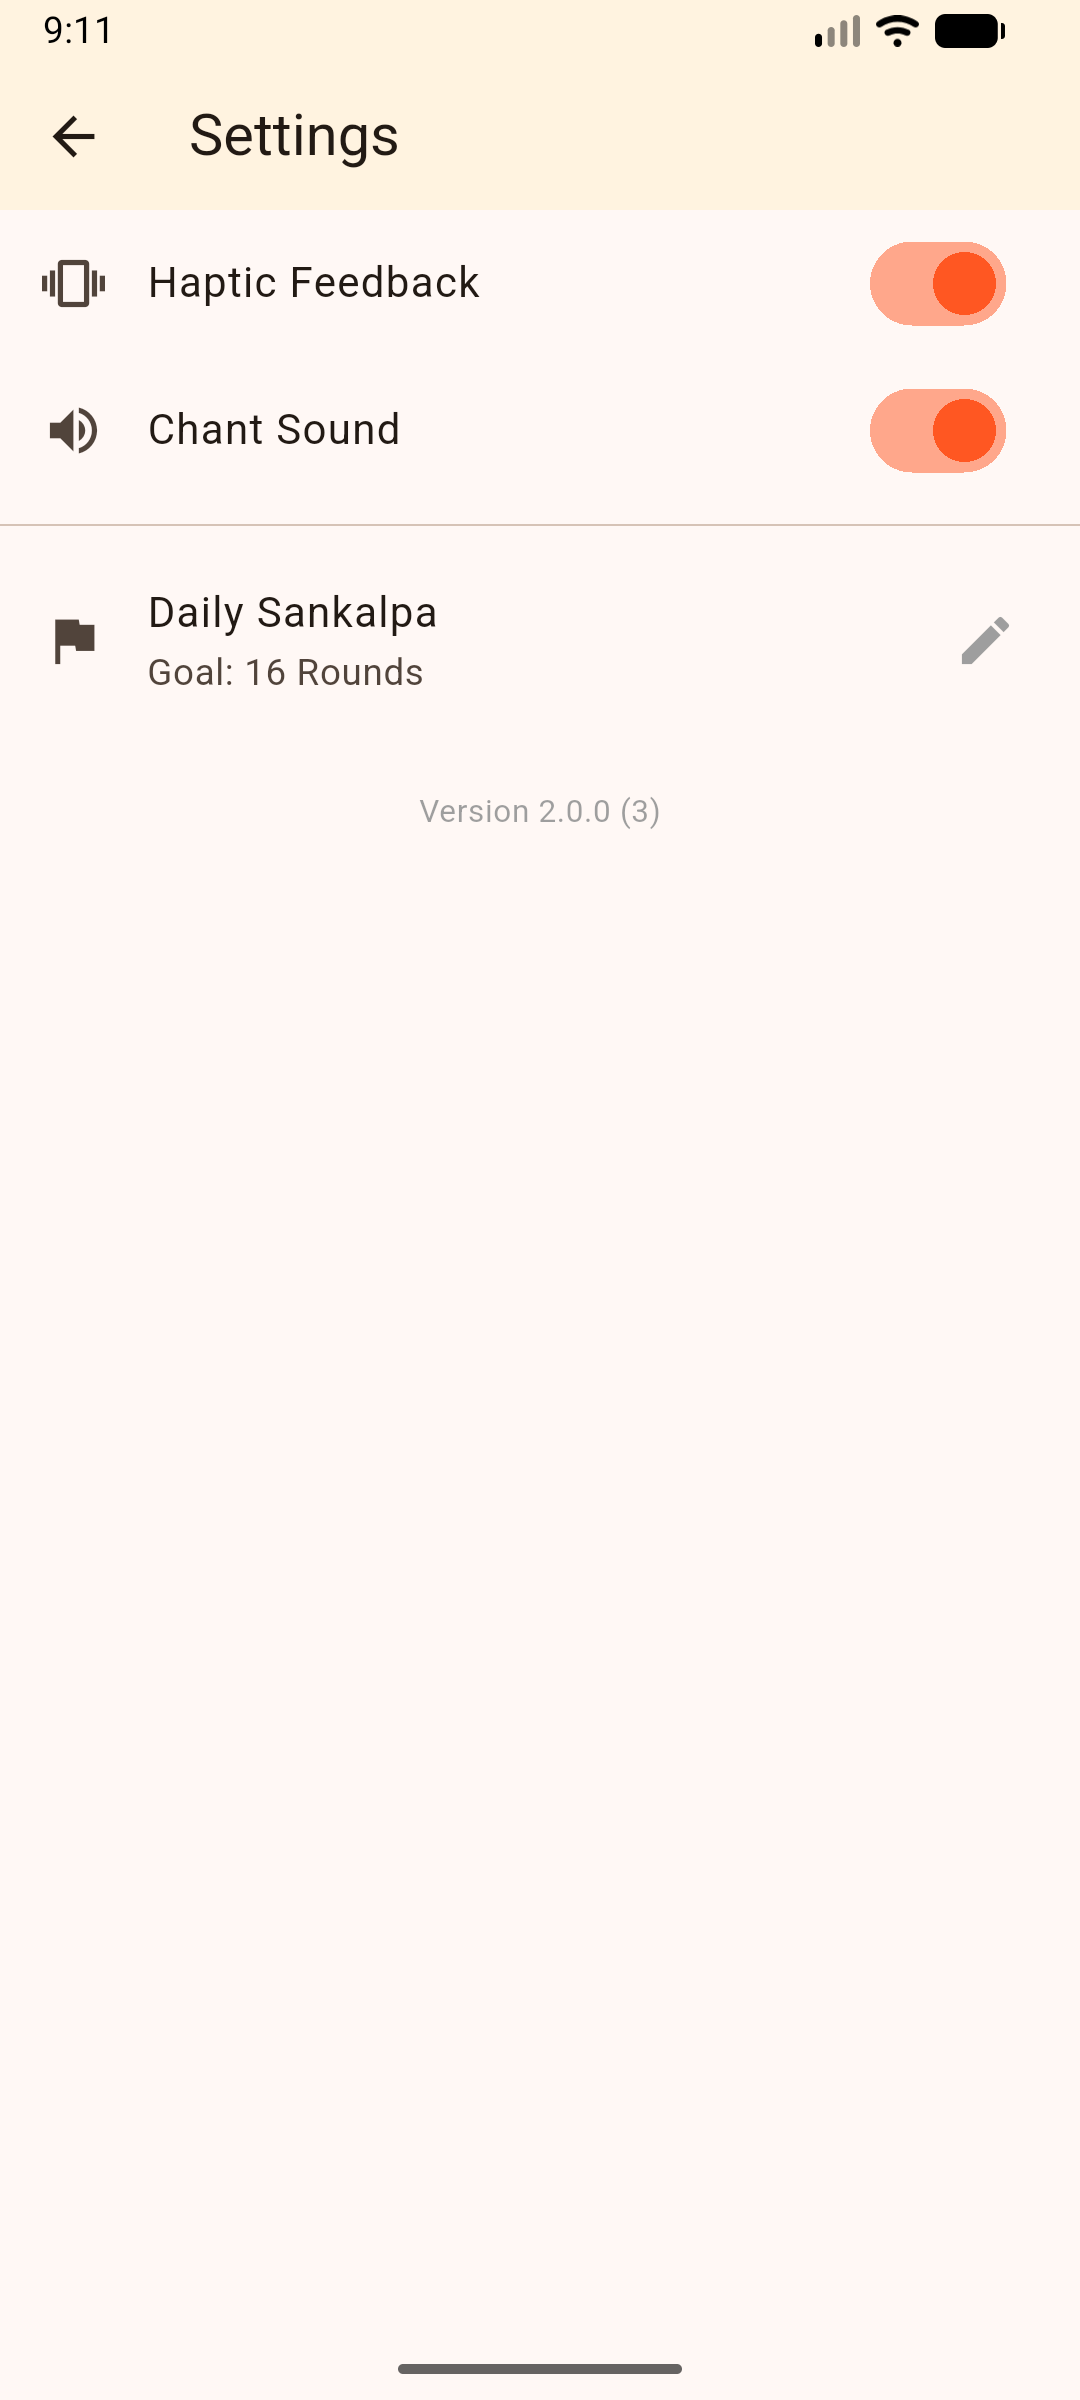
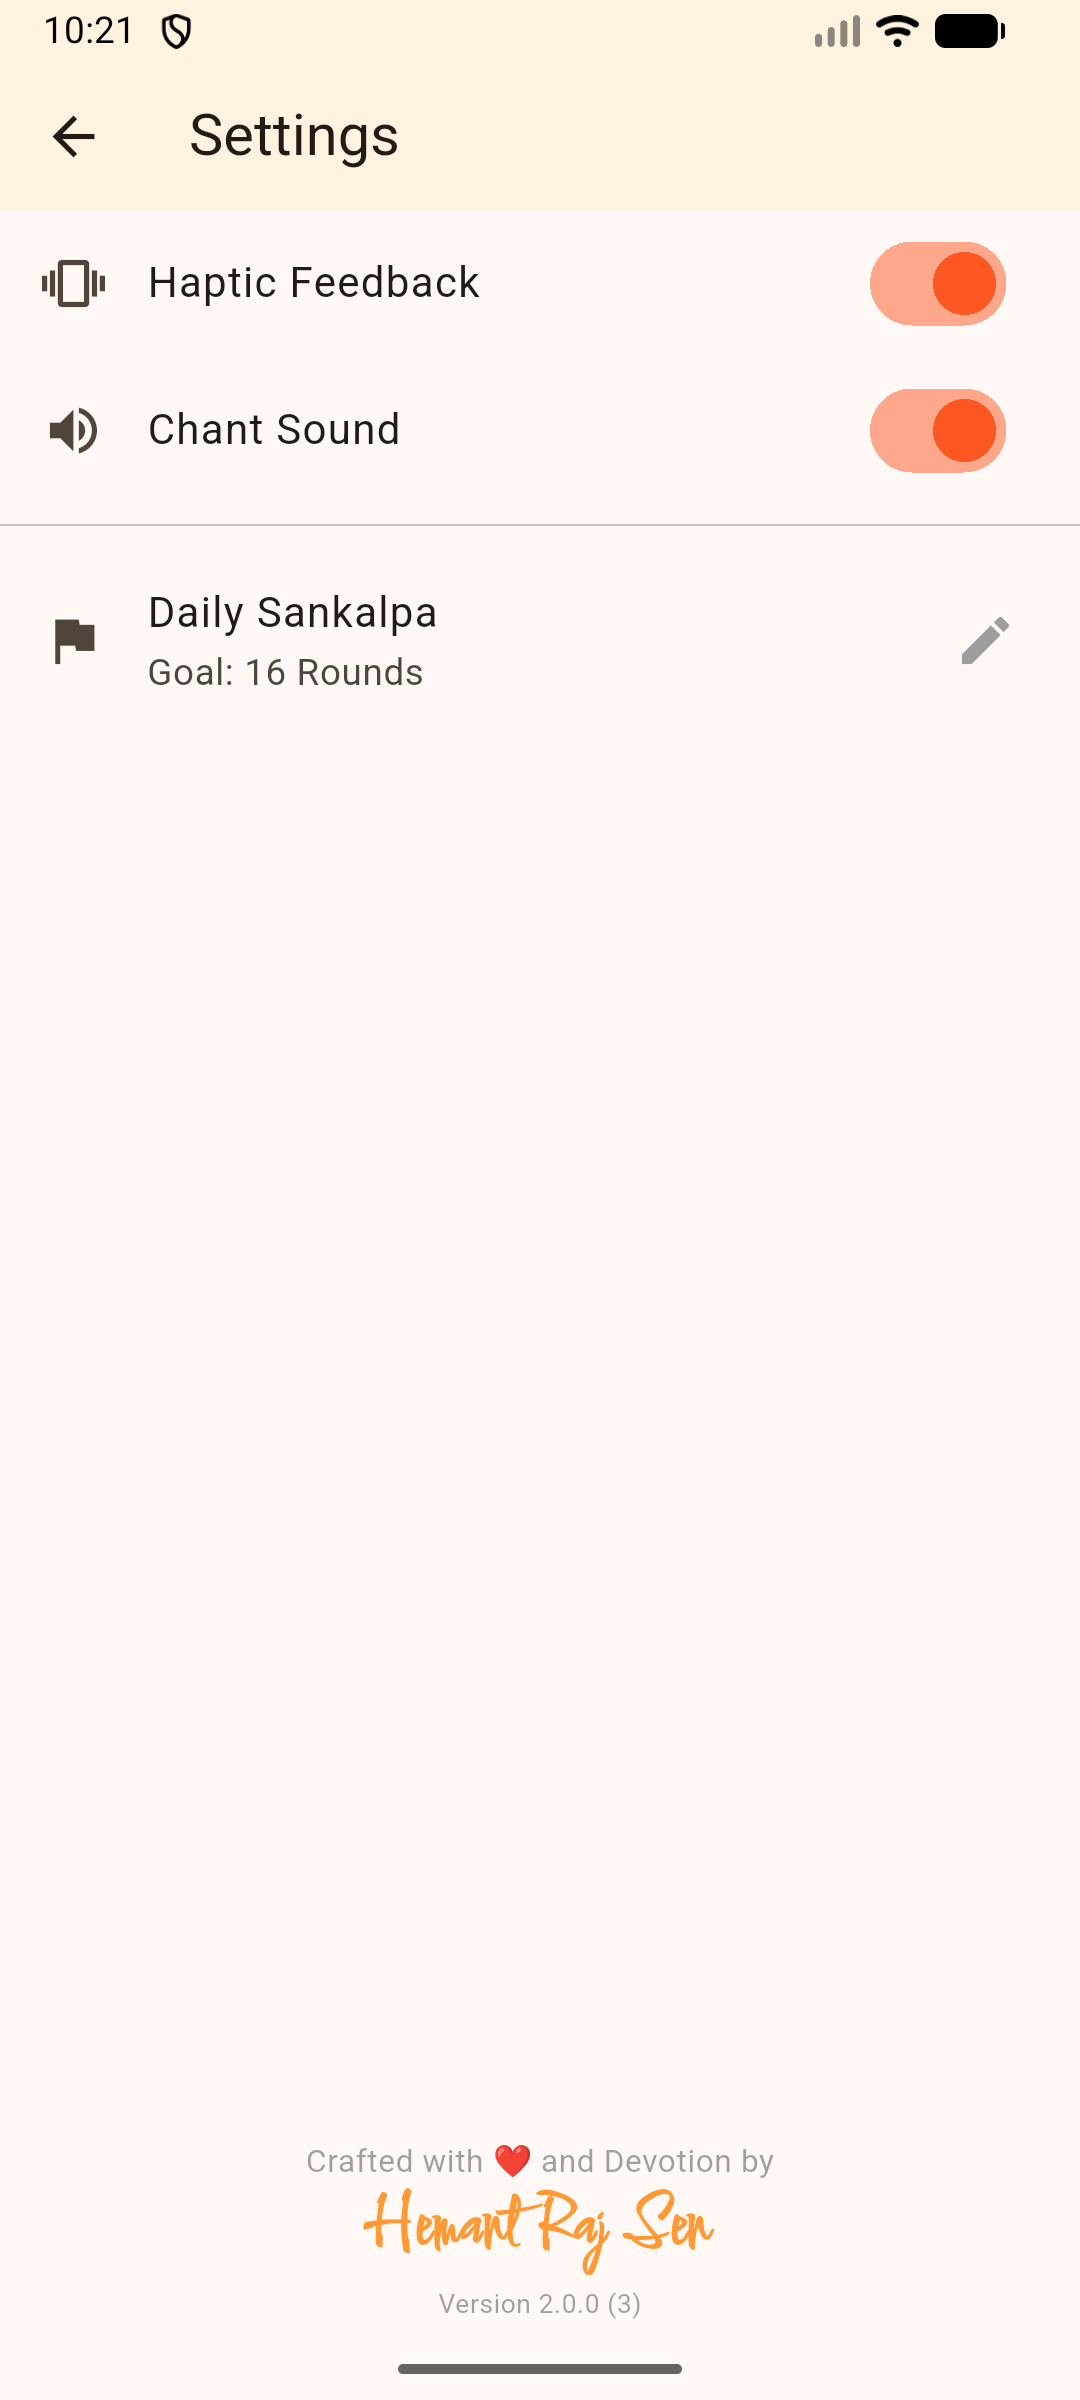
Added My Signature and some fixes

diff --git a/lib/main.dart b/lib/main.dart
@@ -1041,83 +1041,111 @@ class _SettingsScreenState extends State<SettingsScreen> {
         title: const Text("Settings"),
         backgroundColor: Colors.orange[50],
       ),
-      body: ListView(
+      // CHANGE 1: Main body is now a Column to separate List and Footer
+      body: Column(
         children: [
-          SwitchListTile(
-            secondary: const Icon(Icons.vibration),
-            title: const Text("Haptic Feedback"),
-            value: _isVibrationOn,
-            activeThumbColor: Colors.deepOrange,
-            onChanged: (val) {
-              setState(() => _isVibrationOn = val);
-              _updateSetting('isVibrationOn', val);
-            },
-          ),
-          SwitchListTile(
-            secondary: const Icon(Icons.volume_up),
-            title: const Text("Chant Sound"),
-            value: _isSoundOn,
-            activeThumbColor: Colors.deepOrange,
-            onChanged: (val) {
-              setState(() => _isSoundOn = val);
-              _updateSetting('isSoundOn', val);
-            },
-          ),
-          const Divider(),
-          ListTile(
-            leading: const Icon(Icons.flag),
-            title: const Text("Daily Sankalpa"),
-            subtitle: Text("Goal: ${_targetRounds.round()} Rounds"),
-            trailing: const Icon(Icons.edit, color: Colors.grey),
-            onTap: () async {
-              final controller = TextEditingController(
-                text: _targetRounds.round().toString(),
-              );
-              final result = await showDialog<int>(
-                context: context,
-                builder: (ctx) => AlertDialog(
-                  title: const Text('Set Daily Sankalpa'),
-                  content: TextField(
-                    controller: controller,
-                    keyboardType: TextInputType.number,
-                    autofocus: true,
-                    decoration: const InputDecoration(
-                      hintText: 'Enter number of rounds',
-                      suffixText: 'rounds',
-                    ),
-                  ),
-                  actions: [
-                    TextButton(
-                      onPressed: () => Navigator.pop(ctx),
-                      child: const Text('Cancel'),
-                    ),
-                    TextButton(
-                      onPressed: () {
-                        final value = int.tryParse(controller.text);
-                        if (value != null && value > 0) {
-                          Navigator.pop(ctx, value);
-                        }
-                      },
-                      child: const Text('Save'),
-                    ),
-                  ],
+          // CHANGE 2: The List is wrapped in Expanded to push the footer down
+          Expanded(
+            child: ListView(
+              children: [
+                SwitchListTile(
+                  secondary: const Icon(Icons.vibration),
+                  title: const Text("Haptic Feedback"),
+                  value: _isVibrationOn,
+                  activeThumbColor: Colors.deepOrange,
+                  onChanged: (val) {
+                    setState(() => _isVibrationOn = val);
+                    _updateSetting('isVibrationOn', val);
+                  },
                 ),
-              );
-              if (result != null) {
-                setState(() => _targetRounds = result.toDouble());
-                _updateSetting('targetRounds', result.toDouble());
-              }
-            },
-          ),
-          const SizedBox(height: 20), // Spacing
-          // THE VERSION ROW
-          Center(
-            child: Text(
-              _appVersion,
-              style: const TextStyle(color: Colors.grey, fontSize: 12),
+                SwitchListTile(
+                  secondary: const Icon(Icons.volume_up),
+                  title: const Text("Chant Sound"),
+                  value: _isSoundOn,
+                  activeThumbColor: Colors.deepOrange,
+                  onChanged: (val) {
+                    setState(() => _isSoundOn = val);
+                    _updateSetting('isSoundOn', val);
+                  },
+                ),
+                const Divider(),
+                ListTile(
+                  leading: const Icon(Icons.flag),
+                  title: const Text("Daily Sankalpa"),
+                  subtitle: Text("Goal: ${_targetRounds.round()} Rounds"),
+                  trailing: const Icon(Icons.edit, color: Colors.grey),
+                  onTap: () async {
+                    final controller = TextEditingController(
+                      text: _targetRounds.round().toString(),
+                    );
+                    final result = await showDialog<int>(
+                      context: context,
+                      builder: (ctx) => AlertDialog(
+                        title: const Text('Set Daily Sankalpa'),
+                        content: TextField(
+                          controller: controller,
+                          keyboardType: TextInputType.number,
+                          autofocus: true,
+                          decoration: const InputDecoration(
+                            hintText: ' ',
+                            suffixText: 'rounds',
+                          ),
+                        ),
+                        actions: [
+                          TextButton(
+                            onPressed: () => Navigator.pop(ctx),
+                            child: const Text('Cancel'),
+                          ),
+                          TextButton(
+                            onPressed: () {
+                              final value = int.tryParse(controller.text);
+                              if (value != null && value > 0) {
+                                Navigator.pop(ctx, value);
+                              }
+                            },
+                            child: const Text('Save'),
+                          ),
+                        ],
+                      ),
+                    );
+                    if (result != null) {
+                      setState(() => _targetRounds = result.toDouble());
+                      _updateSetting('targetRounds', result.toDouble());
+                    }
+                  },
+                ),
+              ],
             ),
           ),
-          const SizedBox(height: 20),
+
+          // CHANGE 3: The Signature Block is now outside the ListView
+          // This keeps it pinned to the bottom.
+          Container(
+            padding: const EdgeInsets.only(bottom: 30, top: 10),
+            child: Column(
+              children: [
+                const Text(
+                  "Crafted with ❤ and Devotion by",
+                  style: TextStyle(fontSize: 12, color: Colors.grey),
+                ),
+                // Your Name in Cursive
+                Text(
+                  "Hemant Raj Sen",
+                  style: GoogleFonts.comforter(
+                    fontSize: 26,
+                    fontWeight: FontWeight.bold,
+                    color: kSaffron, // Using your Saffron constant
+                  ),
+                ),
+                const SizedBox(height: 2),
+                // The Version Number
+                Text(
+                  _appVersion,
+                  style: const TextStyle(color: Colors.grey, fontSize: 10),
+                ),
+              ],
+            ),
+          ),
         ],
       ),
     );
